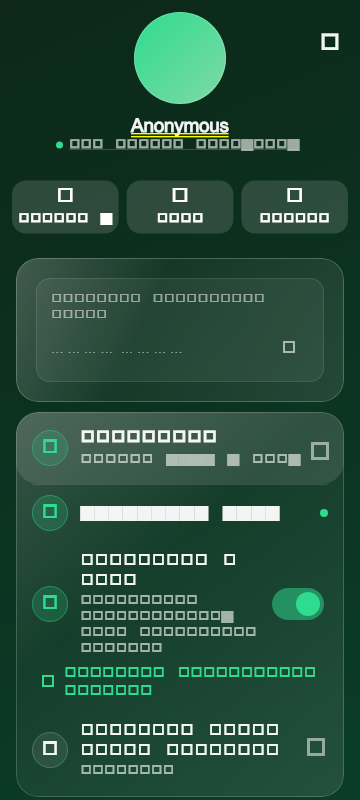
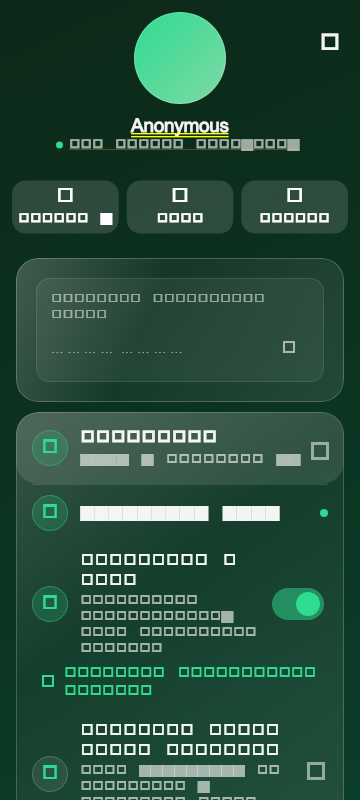
Build 986 — the relay and the doorbell start on, and the permission is asked while it can still be asked
Four changes asked for directly, and two of them reverse a privacy default. The
cost of each is unchanged and is written down where it already was, rather than
quietly dropped now that the answer went the other way.

**The internet fallback starts on.** A relay never sees plaintext, but it does
learn which two Nostr keys exchanged a frame and when — metadata the mesh never
leaks, and the whole reason it shipped off. What tipped it is the other side of
the ledger: off, a message to somebody out of Bluetooth range does not arrive at
all until one of you walks to the other, and a messenger that silently fails to
deliver is not private, it is broken. One tap in the profile turns it off,
Emergency Wipe turns it off, and a device that has already been switched off
stays off — `?? true` is the new-install default and a stored `false` outranks
it.

**The doorbell starts on**, on the same terms, and with a second gate that the
relay does not have: iOS and Android both ask before a single notification can
be drawn, so declining there registers nothing whatever the in-app switch says.

**The permission is asked at the end of onboarding.** Both prompts are shown
once by the system and never again, and the location one was only ever reached
by somebody going looking for map sharing — a field log read `NOT armed: iOS
location for cubechat is not set to Always`, which is a line in a diagnostics
screen nobody opens. `ensureBackgroundPermission` escalates a granted
[…]

diff --git a/lib/core/notifications/push_registration.dart b/lib/core/notifications/push_registration.dart
@@ -48,8 +48,11 @@ import '../util/platform_info.dart';
 /// The server learns that a given npub received something, and when — and since
 /// Nostr events carry the sender's pubkey, who wrote to whom. The relay already
 /// sees all of that, so this is a second observer of the same metadata rather
-/// than a new kind of exposure. It is still a real cost, which is why this is
-/// off until somebody turns it on.
+/// than a new kind of exposure. It is still a real cost. Since 986 the switch
+/// starts on rather than off — see [PushEnabled.build] for why, and for the
+/// two things that keep it from being a decision taken on somebody's behalf:
+/// the system permission prompt still gates every notification, and turning
+/// the switch off withdraws the token from the server.
 ///
 /// One thing the relay does *not* already see is added here: the language the
 /// app is set to, sent so the banner can be written in it. Two values are
@@ -318,10 +321,24 @@ class PushEnabled extends Notifier<bool> {
   Box<dynamic>? _box;
   Future<void>? _loading;
 
+  /// On by default since 986, and the system prompt is still the real gate.
+  ///
+  /// The cost is named rather than hidden: registering hands `push.cubechat.tech`
+  /// this device's public key and its APNs or FCM token, which is the only
+  /// personal data the project holds anywhere. Against it, off meant a phone
+  /// with the app closed learned nothing until it was opened — and a messenger
+  /// whose notifications depend on already having it open is the failure this
+  /// service was built to end.
+  ///
+  /// Defaulting to on costs nobody their choice: iOS and Android both ask
+  /// before a single notification can be shown, so a "no" there leaves this
+  /// registering nothing, and the switch in the profile withdraws the token
+  /// from the server whenever it is turned off. A stored `false` outranks this
+  /// default — see [_load].
   @override
   bool build() {
     unawaited(_loading = _load());
-    return false;
+    return true;
   }
 
   /// The same box the rest of the settings live in, so an emergency wipe takes
@@ -332,7 +349,9 @@ class PushEnabled extends Notifier<bool> {
       final box = await hiveCipherProvider
           .openEncryptedBox<dynamic>(HiveBoxes.settings);
       _box = box;
-      final stored = box.get(_key) as bool? ?? false;
+      // `?? true` is the new-install default; a stored `false` is somebody
+      // having turned it off, and that wins.
+      final stored = box.get(_key) as bool? ?? true;
       if (stored != state) state = stored;
       // Re-registered on every launch while it is on, because a token is not
       // forever: iOS hands out a new one after a restore or a reinstall, and

diff --git a/lib/features/onboarding/presentation/onboarding_screen.dart b/lib/features/onboarding/presentation/onboarding_screen.dart
@@ -1,10 +1,14 @@
+import 'dart:async';
+
 import 'package:flutter/material.dart';
 import 'package:flutter_riverpod/flutter_riverpod.dart';
 import 'package:go_router/go_router.dart';
 
+import '../../../core/notifications/push_registration.dart';
 import '../../../core/theme/colors.dart';
 import '../../../core/theme/typography.dart';
 import '../../../core/widgets/aurora_background.dart';
+import '../../../core/util/location_service.dart';
 import '../../../core/widgets/cube_logo.dart';
 import '../../../l10n/app_localizations.dart';
 import '../data/onboarding_controller.dart';
@@ -33,8 +37,43 @@ class _OnboardingScreenState extends ConsumerState<OnboardingScreen> {
     super.dispose();
   }
 
+  /// Ask for what the app cannot ask for later.
+  ///
+  /// Both prompts are shown once by the system and never again: a refusal is
+  /// remembered, `requestAuthorization` then returns false without drawing
+  /// anything, and the only way back is Settings. So the moment somebody
+  /// finishes the intro — having just read what this app does — is the best
+  /// one there is to ask, and it was not being used.
+  ///
+  /// Location is the one that mattered. A field log read
+  /// `NOT armed: iOS location for cubechat is not set to Always`, which is a
+  /// line in a diagnostics screen nobody opens, and the ask only ever happened
+  /// if somebody went looking for map sharing. [ensureBackgroundPermission]
+  /// escalates a granted while-in-use into the Always prompt, which is the one
+  /// that lets a closed app be woken by movement.
+  ///
+  /// Neither answer blocks anything. A "no" to location leaves the map off, a
+  /// "no" to notifications leaves push registering nothing, and both are
+  /// exactly the state the app was in before it asked.
+  Future<void> _askForWhatCannotBeAskedTwice() async {
+    try {
+      await const LocationService().ensureBackgroundPermission();
+    } catch (_) {
+      // A prompt that fails is not a reason to hold up the first screen.
+    }
+    if (!mounted) return;
+    try {
+      await ref.read(pushEnabledProvider.notifier).reassert();
+    } catch (_) {
+      // Same: the switch is in the profile if this did not land.
+    }
+  }
+
   Future<void> _finish() async {
     await ref.read(onboardingControllerProvider.notifier).markSeen();
+    // Not awaited: the prompts are the system's own modal sheets, and holding
+    // the intro on screen behind them makes the app look stuck.
+    unawaited(_askForWhatCannotBeAskedTwice());
     if (!mounted) return;
     // Straight into the app rather than into profile setup: a nickname can be
     // set at any time from the profile tab, and a form is a poor first screen

diff --git a/lib/features/profile/data/relay_settings_controller.dart b/lib/features/profile/data/relay_settings_controller.dart
@@ -61,7 +61,23 @@ class RelaySettings {
     'wss://nostr.mom',
   ];
 
-  static const initial = RelaySettings(enabled: false, urls: defaultUrls);
+  /// On by default since 986, which is a deliberate reversal.
+  ///
+  /// It was off, and the reasoning still stands as a description of the cost:
+  /// a relay never sees plaintext, but it does learn which two Nostr keys
+  /// exchanged a frame and when — metadata the Bluetooth mesh never leaks. So
+  /// this is not a free default and it is not being presented as one.
+  ///
+  /// What changed is the other side of the ledger. Off, a message to somebody
+  /// who is not in Bluetooth range does not arrive at all until one of you
+  /// walks into range of the other, and a messenger that silently does not
+  /// deliver is not private, it is broken — which is how it kept being
+  /// reported. The switch is one tap away in the profile, Emergency Wipe still
+  /// turns it back off, and the relay list is still the user's to edit.
+  ///
+  /// Anybody who has already turned it off keeps it off: [_load] falls back on
+  /// this only when the box has no stored value at all.
+  static const initial = RelaySettings(enabled: true, urls: defaultUrls);
 
   /// True when the fallback should actually run.
   bool get isActive => enabled && urls.isNotEmpty;
@@ -128,7 +144,9 @@ class RelaySettingsController extends Notifier<RelaySettings> {
       final box =
           await hiveCipherProvider.openEncryptedBox<dynamic>(HiveBoxes.settings);
       _box = box;
-      final enabled = box.get(_enabledKey) as bool? ?? false;
+      // `?? true` is the new-install default; a stored `false` is somebody's
+      // decision and outranks it.
+      final enabled = box.get(_enabledKey) as bool? ?? true;
       var stored = (box.get(_urlsKey) as List<dynamic>?)
           ?.map((e) => e.toString())
           .where(isValidRelayUrl)

diff --git a/test/relay_settings_test.dart b/test/relay_settings_test.dart
@@ -42,11 +42,22 @@ void main() {
   });
 
   group('RelaySettings', () {
-    test('is inactive until the user opts in', () {
-      // The fallback touches a server; cubechat's promise is that it doesn't
-      // have to. So the default must be off.
-      expect(RelaySettings.initial.enabled, isFalse);
-      expect(RelaySettings.initial.isActive, isFalse);
+    test('starts on, and a stored choice still outranks that', () {
+      // Reversed in 986, deliberately and with the cost unchanged: a relay
+      // learns which two keys exchanged a frame and when, which the mesh never
+      // leaks. What tipped it is the other side — off, a message to somebody
+      // out of Bluetooth range does not arrive at all until one of you walks
+      // to the other, and silently not delivering is not a privacy property.
+      expect(RelaySettings.initial.enabled, isTrue);
+      expect(RelaySettings.initial.isActive, isTrue,
+          reason: 'the default list is non-empty, so on means running');
+    });
+
+    test('the switch is still a switch', () {
+      // The whole defence of the new default is that it is one tap away, so
+      // this is the assertion that matters more than the default itself.
+      const off = RelaySettings(enabled: false, urls: RelaySettings.defaultUrls);
+      expect(off.isActive, isFalse);
     });
 
     test('enabled with no relays is still inactive', () {

diff --git a/lib/core/transport/store_forward_cache.dart b/lib/core/transport/store_forward_cache.dart
@@ -40,8 +40,22 @@ class StoredFrame {
 /// longer than the window the destination would reject it as stale. The
 /// messaging layer keeps the two aligned (both 1 hour).
 class StoreForwardCache {
+  /// Global frame ceiling.
+  ///
+  /// Two hundred was set when a media chunk could still land here, and the
+  /// comment on [maxFrameBytes] describes one photo filling it in about two
+  /// seconds. That door is shut: nothing over 2 kB is held at all, so the
+  /// worst case is now 1000 x 2 kB — two megabytes, against the two hundred
+  /// kilobytes the old ceiling was really protecting.
+  ///
+  /// A field log showed the old figure binding: `restored 200 held frame(s)
+  /// across 19 dest`, exactly at the ceiling, every frame under an hour old
+  /// because the import drops anything staler. A phone carrying mail for
+  /// nineteen people had ten slots each and was evicting real messages it had
+  /// agreed to carry. [perDestCap] is still what stops one chatty neighbour
+  /// taking the lot.
   StoreForwardCache({
-    this.capacity = 200,
+    this.capacity = 1000,
     this.perDestCap = 50,
     this.maxFrameBytes = 2048,
     this.ttl = const Duration(hours: 1),

diff --git a/lib/core/transport/messaging_service.dart b/lib/core/transport/messaging_service.dart
@@ -561,6 +561,14 @@ class MessagingService {
                 DebugLog.instance.log('NOSTR', 'inbound stream error: $e'),
           );
       _relayStateSub = client.stateChanges.listen((states) {
+        // A socket state can land after the service is gone: the relay pool
+        // lives on its own timers, and disposal cannot un-schedule a callback
+        // already on the queue. Reading a provider from a disposed container
+        // throws, and this is the one listener that does so on every state
+        // message. It surfaced the moment the fallback started on by default
+        // and tests began standing a real pool up — a shutdown race that was
+        // simply unreachable while the default was off.
+        if (_disposed) return;
         _ref.read(relayStatusProvider.notifier).publish(states);
         // A relay coming up is a media route appearing, exactly like a BLE
         // session doing so — and for a peer we only ever reach over the

diff --git a/lib/core/util/app_build.dart b/lib/core/util/app_build.dart
@@ -23,4 +23,4 @@ const String appVersion = '1.0.0';
 ///
 /// Verified inside `libapp.so` after every build — see `tool/build_apk.ps1`,
 /// which is what catches a build that silently reused an old snapshot.
-const String appBuildStamp = '2026-09-07-an-empty-record-vouches-for-nothing';
+const String appBuildStamp = '2026-09-08-the-relay-and-the-doorbell-start-on';

diff --git a/docs/legal/privacy-policy.en.md b/docs/legal/privacy-policy.en.md
@@ -1,6 +1,6 @@
 # Cubechat Privacy Policy
 
-**Last updated: 7 September 2026**
+**Last updated: 8 September 2026**
 
 Cubechat is a peer-to-peer messenger. Messages travel directly between phones
 over Bluetooth Low Energy, and optionally through public relays that carry them
@@ -78,19 +78,24 @@ passive observer cannot follow one device across the day by its address alone.
 Anyone within Bluetooth range can observe that a Cubechat device is present and
 that encrypted traffic is occurring. They cannot read it.
 
-### 4.2 Over Nostr relays (optional, off by default)
+### 4.2 Over Nostr relays (on by default, and you can switch it off)
 
-If you enable **Internet fallback**, a message the mesh could not deliver is
+When **Internet fallback** is on, a message the mesh could not deliver is
 published to public Nostr relays, which forward it to the recipient. The relay
 receives the message already sealed and signed; it cannot decrypt it.
 
 **A relay does learn metadata, and this is the most important disclosure in
 this policy:** it can see which two Nostr public keys exchanged a frame, when,
-and how large it was. The Bluetooth mesh does not leak this. That is precisely
-why the feature is **off by default and opt-in per device**.
+and how large it was. The Bluetooth mesh does not leak this.
+
+This feature was off by default until September 2026 for exactly that reason.
+It is now **on by default**, because with it off a message to somebody out of
+Bluetooth range simply does not arrive until you are near each other again. You
+can turn it off at any time in Profile → Internet fallback, and **Emergency
+Wipe** switches it off too.
 
 The relays are operated by unrelated third parties, not by us. The default list
-is editable in the app, and **Emergency Wipe** switches the feature back off.
+is editable in the app.
 
 ### 4.3 Group rooms
 
@@ -105,7 +110,15 @@ good as the care taken in sharing it.
 To wake a phone whose app is fully closed, Cubechat runs one small service at
 `push.cubechat.tech`. This is the only server we operate.
 
-**It is opt-in.** You turn it on in the app. It never sees message content.
+**It is on by default, and you can switch it off.** It never sees message
+content.
+
+Your phone's operating system asks separately before any notification can be
+shown, and if you decline there, nothing is registered at all. Turning the
+switch off in the app deletes your entry from the service. Before September
+2026 this feature was off until switched on; it now starts on, because a
+messenger whose notifications only work while it is already open is not doing
+the job.
 
 For each phone that registers, it stores:
 
@@ -141,13 +154,18 @@ fragments and delivery outcomes, not content.
 
 ## 6. Location
 
-Cubechat requests location permission for two separate features. Both are off
-until you turn them on.
+Cubechat requests location permission for two separate features. **Sharing is
+off until you turn it on**, whatever you answered to the permission prompt.
+
+The app asks for the permission once, at the end of the first-run introduction,
+because both iOS and Android show that prompt only once and remember a refusal.
+Granting it does not start sharing anything — it only means the switch will
+work when you reach for it.
 
 **Sharing your position on the map.** When enabled, your coordinates are sent
 **end-to-end encrypted, only to the specific contacts you added to your map**,
-and each beacon expires after two minutes. Switching the feature off retracts
-your pin immediately rather than letting it linger. We never receive your
+and each beacon expires after six minutes. Switching the feature off retracts
+your pin immediately rather than waiting for that to lapse. We never receive your
 location — it travels the same encrypted path as a message.
 
 **Background location on iOS ("Always").** This permission exists so the app
@@ -237,8 +255,10 @@ complain, use the contact address in section 1. You may also complain to your
 national supervisory authority.
 
 **Legal basis**, where one is required: consent for the push service and for
-location sharing (both opt-in and revocable), and legitimate interest for
-keeping the push service secure and operational.
+location sharing. Both are revocable at any moment from inside the app, and
+both sit behind an operating-system permission prompt that you answer yourself
+— declining it means nothing is collected, whatever the in-app switch says.
+Legitimate interest covers keeping the push service secure and operational.
 
 ---
 

diff --git a/README.md b/README.md
@@ -93,8 +93,8 @@ UI work but have no BLE.
   in a crowd where flooding costs most) and per-message deduplication
 - **Store-and-forward**: messages for an offline peer are held (encrypted) and
   delivered automatically when they come back into range
-- **Internet fallback (optional, off by default)** — when the mesh can't reach a
-  peer, the same sealed frame goes out over public Nostr relays
+- **Internet fallback (on by default, switchable off)** — when the mesh can't
+  reach a peer, the same sealed frame goes out over public Nostr relays
 - **Contact cards** — start a chat with someone who has *never* been in
   Bluetooth range: share a signed identity card as text through any other app,
   they paste it, and messages flow over the relay from the first tap
@@ -257,10 +257,18 @@ signed, so a relay carries ciphertext it cannot read. Lives in
   *same* dispatch as a BLE notification, so they get the same dedup, replay
   window, and signature checks.
 
-**Off by default, and it should be.** A relay never sees plaintext, but it does
-learn which two Nostr keys exchanged a message and when — metadata the BLE mesh
-never leaks. So it is opt-in per device (Profile → Internet fallback), the relay
-list is user-editable, and Emergency Wipe switches it back off.
+**On by default since build 986, and the cost is unchanged.** A relay never sees
+plaintext, but it does learn which two Nostr keys exchanged a message and when —
+metadata the BLE mesh never leaks. That was the reason it shipped off, and it is
+still true.
+
+What changed is the other side. Off, a message to somebody out of Bluetooth
+range does not arrive at all until one of you walks into range of the other, and
+a messenger that silently fails to deliver is not private — it is broken, which
+is how it kept being reported. So the default flipped: the switch is one tap
+away (Profile → Internet fallback), the relay list is user-editable, Emergency
+Wipe switches it back off, and a device that has already been switched off stays
+off — the new default applies only where nothing was ever stored.
 
 ### Contact cards — starting a chat with no BLE at all
 
@@ -570,7 +578,7 @@ dart run flutter_native_splash:create
       block/mute, favorites, floating Telegram-style UI, anonymous naming
 - [x] **M6** — Nostr internet fallback: secp256k1 signer, event framing, relay
       protocol, WebSocket relay pool, `MessagingService` bridge, and the relay
-      settings screen — opt-in, off by default
+      settings screen — on by default since 986, switchable off per device
 - [x] **M6.5** — Contact cards: share the signed announcement as text, import a
       peer you've never met on the mesh, and introduce yourself over the relay
       so the reply path exists — a chat that never touches Bluetooth

diff --git a/docs/legal/store-disclosures.md b/docs/legal/store-disclosures.md
@@ -10,8 +10,10 @@ Two facts do most of the work:
 1. **There is no account and no message server.** Nothing about a conversation
    reaches us, ever.
 2. **One exception, and only one:** the push notification service at
-   `push.cubechat.tech`. It is opt-in, and it holds a public key and a device
-   token. That is the whole of what we collect.
+   `push.cubechat.tech`. It holds a public key and a device token, and that is
+   the whole of what we collect. Since build 986 its switch **starts on** — the
+   operating system's own notification prompt is still the gate, and declining
+   it means nothing is ever registered.
 
 ---
 
@@ -106,7 +108,9 @@ reviewers look for in a messenger:
   travel encrypted between devices and are stored in the app's private
   container.
 - **Location (approximate and precise)** — not collected. Shared only with
-  contacts the user picks, end-to-end encrypted, expiring after two minutes.
+  contacts the user picks, end-to-end encrypted, expiring after six minutes.
+  Sharing stays off until switched on; the permission is requested at the end
+  of first-run onboarding, which grants nothing by itself.
 
 ### Section 3 — Sensitive permissions that need a declaration
 
@@ -185,6 +189,11 @@ A short list, because these are the changes that would make a declaration false:
   and may add a data type. The current set is in `handleRegister`.
 - **Anything that uploads content anywhere** ends the "not collected" answer
   for User Content, which is the single most consequential line here.
+- **Flipping a privacy default** — the relay and the push switch both changed
+  from off to on in 986 — changes what the Privacy Policy says in §4.2 and §5,
+  and the README's paragraph on the fallback. All three moved in that commit;
+  keep it that way, because a default is what most people will actually be
+  running.
 - **A new third-party map tile source** belongs in Privacy Policy §6.
 - **Requesting the address book** would add Contacts, which is currently
   answerable as "not collected" only because the permission does not exist.
